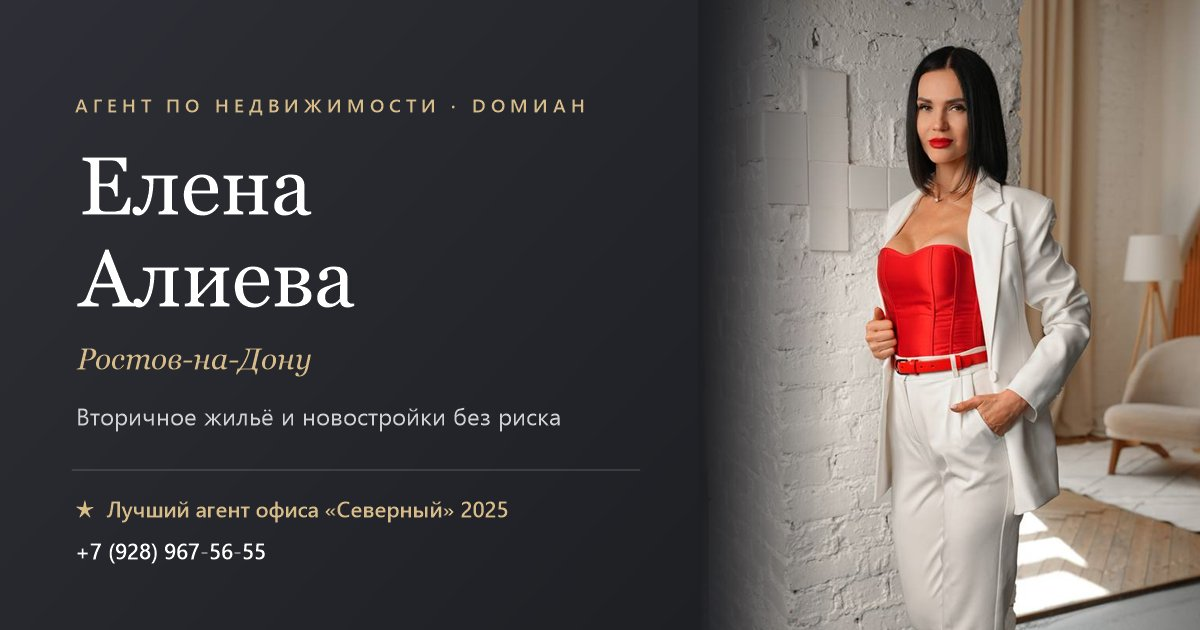
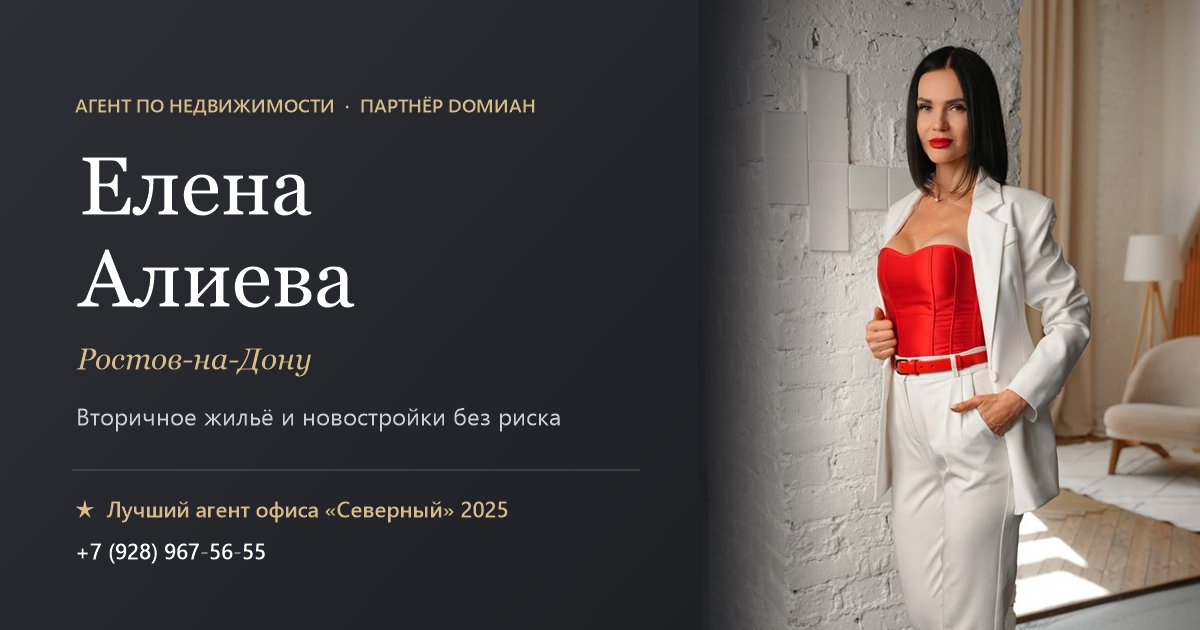
Сотрудничество с DОМИАН вместо работы в компании, убрано число сделок

Changed region(s): [[0.0617, 0.1508, 0.4933, 0.181]]

diff --git a/index.html b/index.html
@@ -3,10 +3,10 @@
 <head>
 <meta charset="utf-8">
 <meta name="viewport" content="width=device-width, initial-scale=1">
-<title>Елена Алиева — агент по недвижимости в Ростове-на-Дону | DОМИАН</title>
-<meta name="description" content="Елена Алиева — лучший агент офиса «Северный» компании DОМИАН 2025 года. Вторичное жильё и новостройки в Ростове-на-Дону. В недвижимости с 2022 года, более 160 сделок, 95% клиентов по рекомендации. Новостройки без комиссии, ипотека, материнский капитал, альтернативные сделки, юридическая проверка.">
+<title>Елена Алиева — агент по недвижимости в Ростове-на-Дону | партнёр DОМИАН</title>
+<meta name="description" content="Елена Алиева — агент по недвижимости, сотрудничает с компанией DОМИАН. Лучший агент офиса «Северный» 2025 года. Вторичное жильё и новостройки в Ростове-на-Дону. В недвижимости с 2022 года, 95% клиентов по рекомендации. Новостройки без комиссии, ипотека, материнский капитал, альтернативные сделки, юридическая проверка.">
 <meta property="og:title" content="Елена Алиева — агент по недвижимости в Ростове-на-Дону">
-<meta property="og:description" content="Вторичка и новостройки без риска. Лучший агент офиса «Северный» 2025. 160+ сделок, 95% клиентов по рекомендации.">
+<meta property="og:description" content="Вторичка и новостройки без риска. Лучший агент офиса «Северный» 2025. 95% клиентов по рекомендации, 5,0 на Яндекс Картах.">
 <meta property="og:image" content="https://stary1ema2708.github.io/aliyeva-site/img/og.jpg">
 <meta property="og:image:width" content="1200">
 <meta property="og:image:height" content="630">
@@ -31,7 +31,7 @@
 {
   "@context": "https://schema.org",
   "@type": "RealEstateAgent",
-  "name": "Елена Алиева — агент по недвижимости DОМИАН",
+  "name": "Елена Алиева — агент по недвижимости",
   "image": "https://stary1ema2708.github.io/aliyeva-site/img/hero.jpg",
   "url": "https://stary1ema2708.github.io/aliyeva-site/",
   "telephone": "+79289675655",
@@ -637,7 +637,7 @@ footer{padding:60px 0 110px;color:var(--ink-3);font-size:14px}
   <div class="container nav">
     <a href="#top" class="logo" aria-label="Елена Алиева — на главную">
       <span class="logo-mark">ЕА</span>
-      <span><b>Елена Алиева</b><small>агент DОМИАН</small></span>
+      <span><b>Елена Алиева</b><small>агент-партнёр DОМИАН</small></span>
     </a>
     <nav class="menu" aria-label="Основное меню">
       <a href="#about">Обо мне</a><a href="#services">Услуги</a><a href="#objects">Объекты</a><a href="#calc">Ипотека</a><a href="#reviews">Отзывы</a><a href="#contacts">Контакты</a>
@@ -668,7 +668,7 @@ footer{padding:60px 0 110px;color:var(--ink-3);font-size:14px}
       </div>
       <div class="hero-facts">
         <div><b>С 2022</b>года в недвижимости</div>
-        <div><b>160+</b>закрытых сделок</div>
+        <div><b>5,0 ★</b>на Яндекс Картах</div>
         <div><b>2–3 мес.</b>средний срок сделки</div>
       </div>
     </div>
@@ -693,9 +693,9 @@ footer{padding:60px 0 110px;color:var(--ink-3);font-size:14px}
   <div class="container">
     <div class="stats-grid">
       <div class="stat reveal"><div class="num"><span data-count="2022" data-from="1990">2022</span></div><p>год, с которого я помогаю с недвижимостью в Ростове</p></div>
-      <div class="stat reveal d1"><div class="num"><span data-count="160">0</span><sup>+</sup></div><p>успешно закрытых сделок</p></div>
+      <div class="stat reveal d1"><div class="num"><span data-count="20">0</span><sup>+</sup></div><p>отзывов с оценкой 5 на Яндекс Картах</p></div>
       <div class="stat reveal d2"><div class="num"><span data-count="95">0</span><sup>%</sup></div><p>клиентов приходят ко мне по рекомендации</p></div>
-      <div class="stat reveal d3"><div class="num"><span data-count="17">0</span></div><p>лет на рынке компании DОМИАН</p></div>
+      <div class="stat reveal d3"><div class="num"><span data-count="17">0</span></div><p>лет на рынке у DОМИАН, компании, с которой я сотрудничаю</p></div>
     </div>
   </div>
 </section>
@@ -711,7 +711,7 @@ footer{padding:60px 0 110px;color:var(--ink-3);font-size:14px}
         <p class="lead">Награда «Серебряная звезда» от компании DОМИАН по итогам 2025 года.</p>
         <div class="award-stats">
           <div><b><span data-count="95">0</span>%</b>клиентов приходят по рекомендации</div>
-          <div><b><span data-count="160">0</span>+</b>успешных сделок</div>
+          <div><b>5,0</b>рейтинг на Яндекс Картах</div>
         </div>
         <p class="award-note">Коллеги из других офисов и даже из других агентств передают мне своих продавцов и покупателей.</p>
       </div>
@@ -1106,8 +1106,8 @@ footer{padding:60px 0 110px;color:var(--ink-3);font-size:14px}
       <div class="years reveal"><span data-count="17">0</span><small>лет на рынке</small></div>
       <div>
         <span class="eyebrow reveal">Компания</span>
-        <h2 class="reveal d1">Я работаю в <em>DОМИАН</em> — одной из крупнейших компаний региона</h2>
-        <p class="lead reveal d2">DОМИАН 17 лет работает на рынке недвижимости и входит в число самых крупных и успешных компаний Ростова-на-Дону и Ростовской области. Вы получаете личное внимание агента, а за ним стоят ресурсы и опыт большой команды.</p>
+        <h2 class="reveal d1">Я сотрудничаю с <em>DОМИАН</em> — одной из крупнейших компаний региона</h2>
+        <p class="lead reveal d2">DОМИАН 17 лет работает на рынке недвижимости и входит в число самых крупных и успешных компаний Ростова-на-Дону и Ростовской области. Вы получаете личное внимание агента, а за ним стоят ресурсы и опыт большой команды партнёра.</p>
         <div class="pillars">
           <div class="reveal d2"><b>Большая база</b>объектов в Ростове и области</div>
           <div class="reveal d3"><b>Лучшие юристы</b>и ипотечные брокеры</div>
@@ -1281,7 +1281,7 @@ footer{padding:60px 0 110px;color:var(--ink-3);font-size:14px}
 
 <footer>
   <div class="container foot">
-    <div class="logo"><span class="logo-mark">ЕА</span><span><b>Елена Алиева</b><small>агент по недвижимости · DОМИАН</small></span></div>
+    <div class="logo"><span class="logo-mark">ЕА</span><span><b>Елена Алиева</b><small>агент по недвижимости · партнёр DОМИАН</small></span></div>
     <div>© <span id="year"></span> Елена Алиева. Ростов-на-Дону · <a href="mailto:honeyra@mail.ru">honeyra@mail.ru</a></div>
     <a class="phone" href="tel:+79289675655">+7 (928) 967-56-55</a>
   </div>
